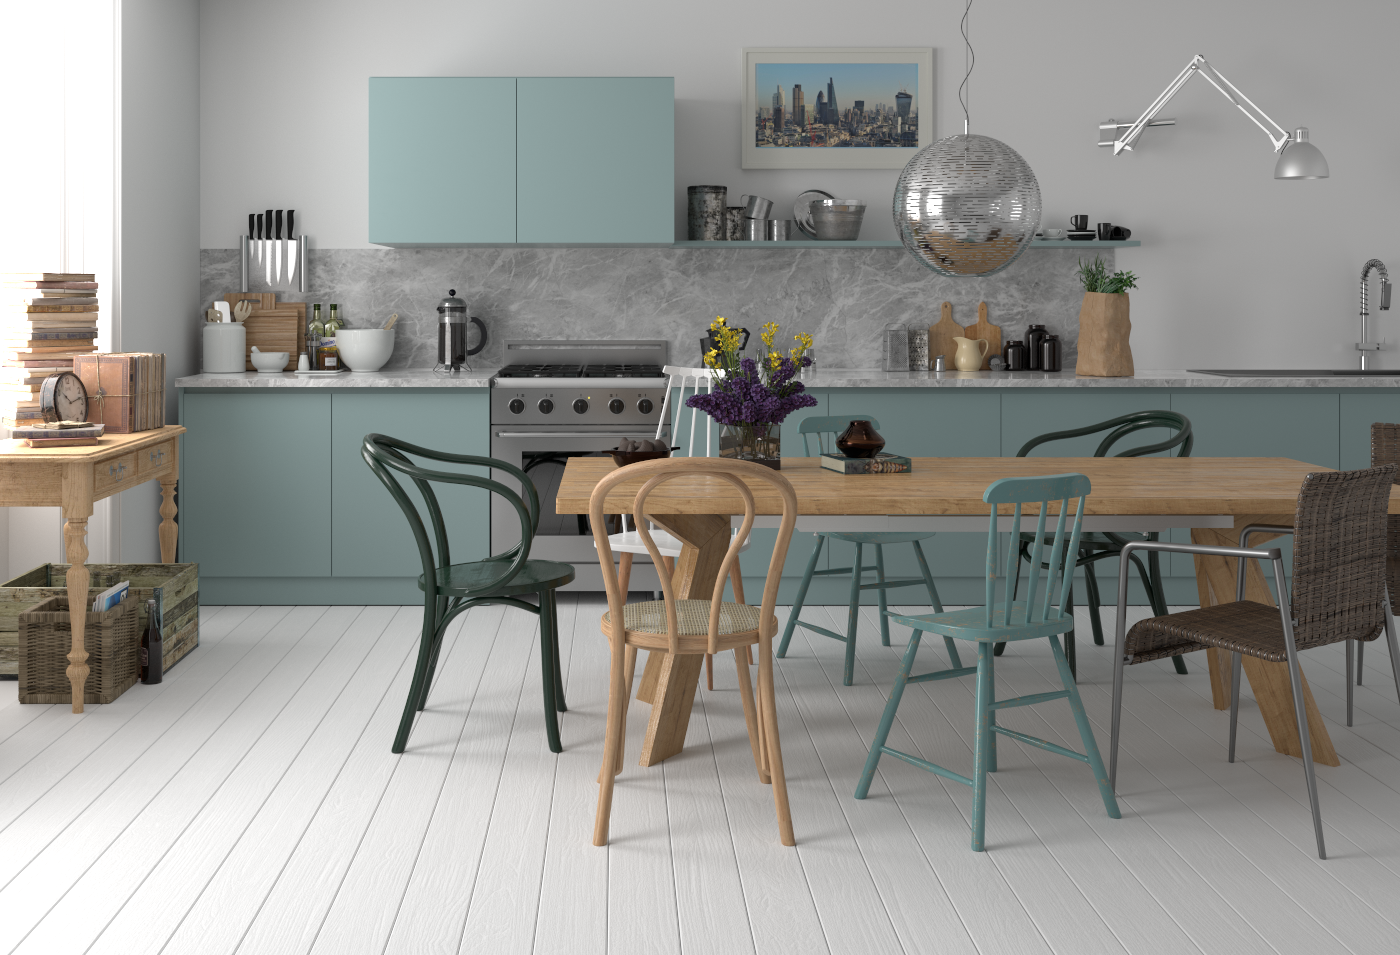
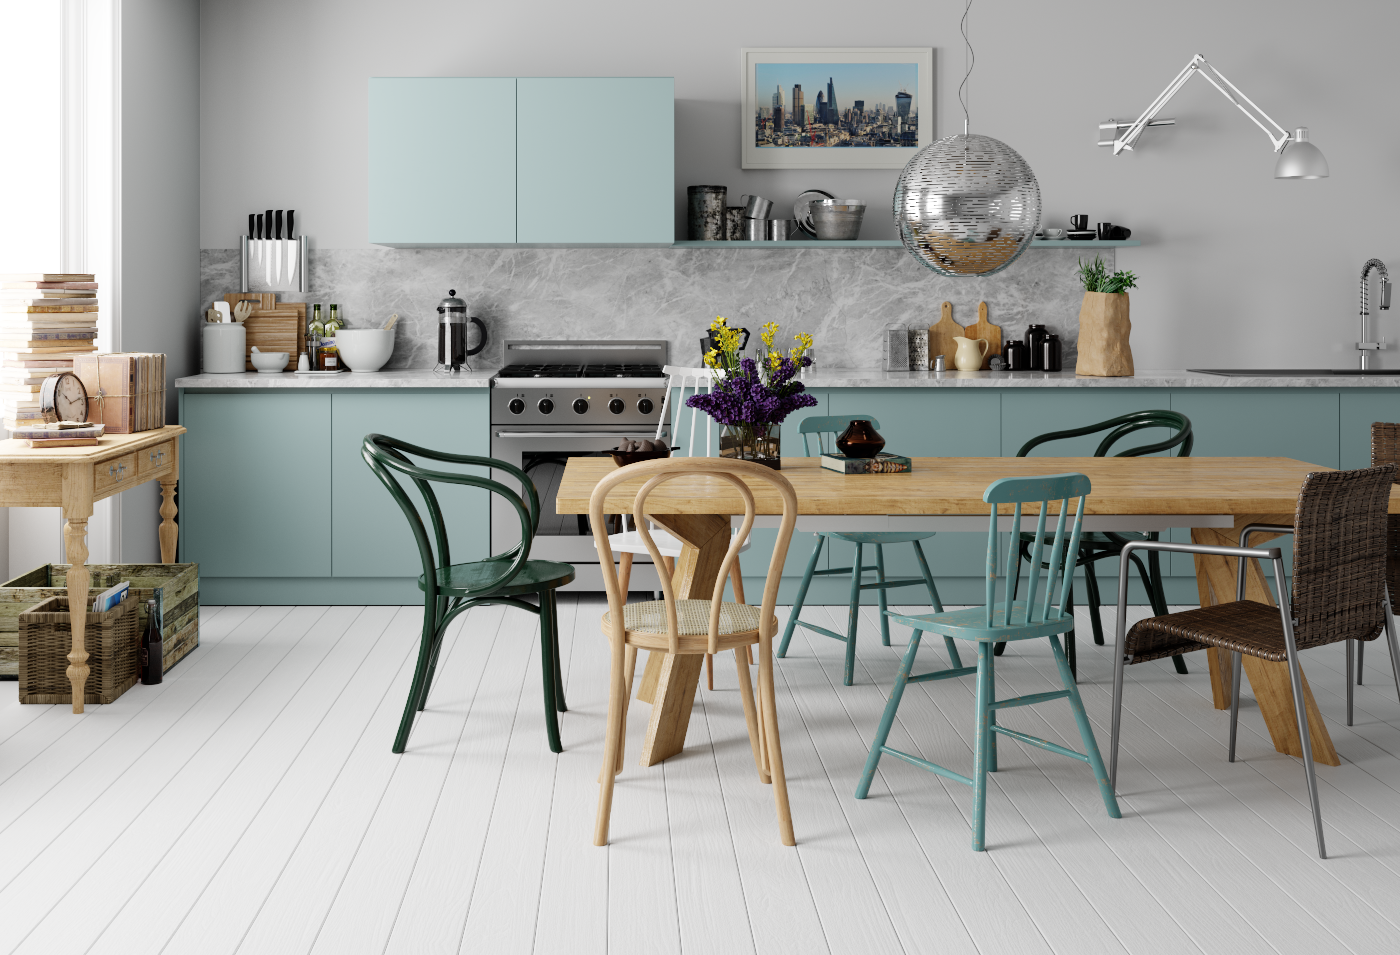
Use filmic tonemap in scenes
Former-commit-id: ec24594dadfcedc1b1ca6e51e97090581e0cd5d9

diff --git a/src/DemoLib/load/Load.cpp b/src/DemoLib/load/Load.cpp
@@ -447,10 +447,27 @@ std::shared_ptr<Ray::SceneBase> LoadScene(Ray::RendererBase *r, const JsObject &
                     }
                 }
 
-                if (js_cam.Has("srgb")) {
-                    const JsLiteral &js_srgb = js_cam.at("srgb").as_lit();
-                    cam_desc.dtype =
-                        (js_srgb.val == JsLiteralType::True) ? Ray::eDeviceType::SRGB : Ray::eDeviceType::None;
+                if (js_cam.Has("view_transform")) {
+                    const JsString &js_view_transform = js_cam.at("view_transform").as_str();
+                    if (js_view_transform.val == "standard") {
+                        cam_desc.view_transform = Ray::eViewTransform::Standard;
+                    } else if (js_view_transform.val == "filmic") {
+                        cam_desc.view_transform = Ray::eViewTransform::Filmic;
+                    } else if (js_view_transform.val == "filmic_very_low_contrast") {
+                        cam_desc.view_transform = Ray::eViewTransform::Filmic_VeryLowContrast;
+                    } else if (js_view_transform.val == "filmic_low_contrast") {
+                        cam_desc.view_transform = Ray::eViewTransform::Filmic_LowContrast;
+                    } else if (js_view_transform.val == "filmic_med_low_contrast") {
+                        cam_desc.view_transform = Ray::eViewTransform::Filmic_MediumLowContrast;
+                    } else if (js_view_transform.val == "filmic_med_contrast") {
+                        cam_desc.view_transform = Ray::eViewTransform::Filmic_MediumContrast;
+                    } else if (js_view_transform.val == "filmic_med_high_contrast") {
+                        cam_desc.view_transform = Ray::eViewTransform::Filmic_MediumHighContrast;
+                    } else if (js_view_transform.val == "filmic_high_contrast") {
+                        cam_desc.view_transform = Ray::eViewTransform::Filmic_HighContrast;
+                    } else if (js_view_transform.val == "filmic_very_high_contrast") {
+                        cam_desc.view_transform = Ray::eViewTransform::Filmic_VeryHighContrast;
+                    }
                 }
 
                 if (view_targeted) {

diff --git a/src/DemoLib/Viewer.cpp b/src/DemoLib/Viewer.cpp
@@ -8,9 +8,9 @@
 #include <Sys/Json.h>
 
 #include "eng/GameStateManager.h"
+#include "gui/FontStorage.h"
 #include "ren/Context.h"
 #include "states/GSCreate.h"
-#include "gui/FontStorage.h"
 
 Viewer::Viewer(const int w, const int h, const char *local_dir, const AppParams &_app_params, const int gpu_mode,
                const bool nobindless, const bool nocompression)
